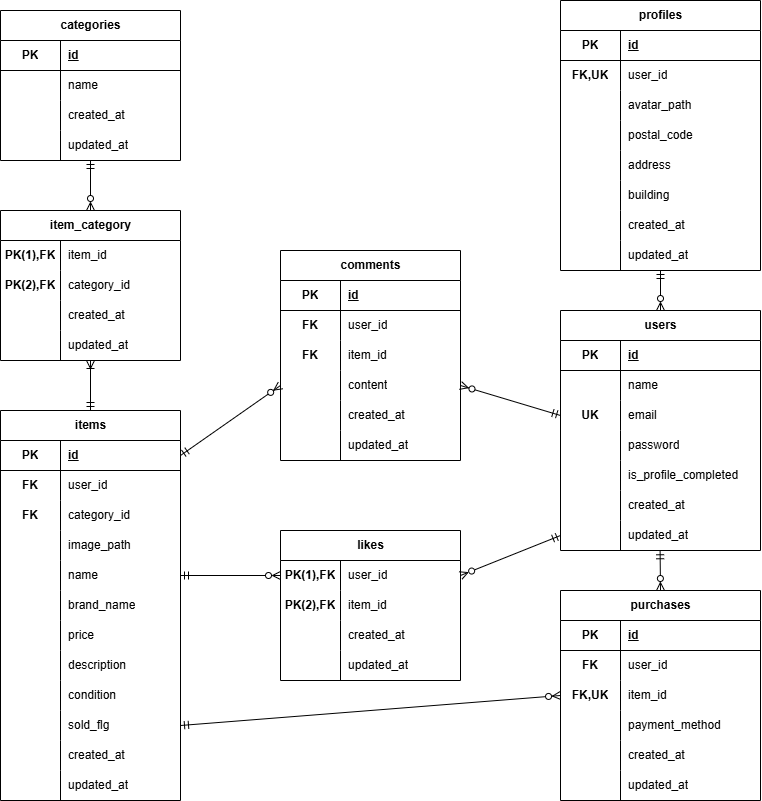
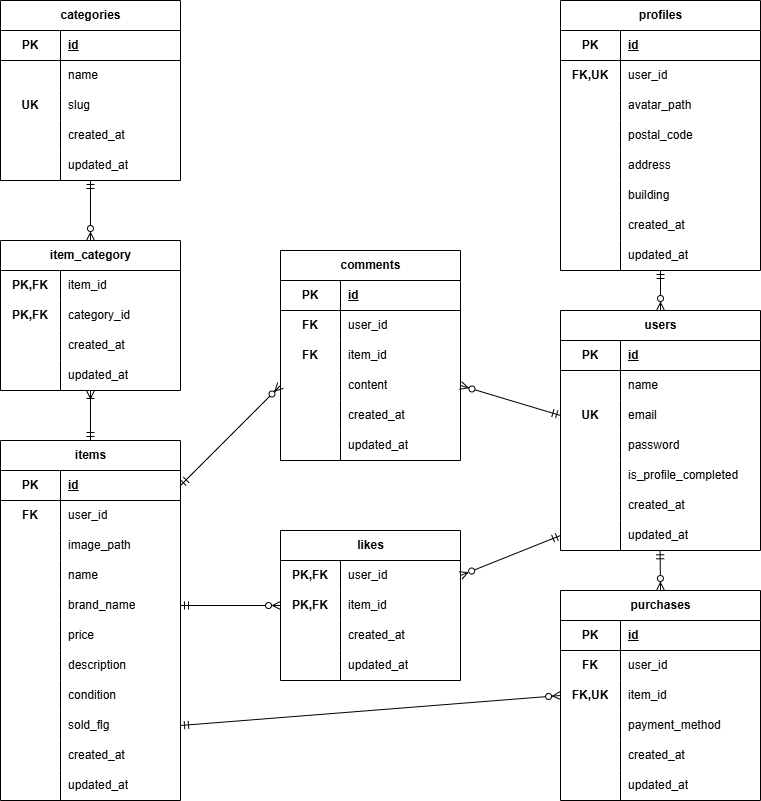
README+ER

diff --git a/src/database/migrations/2026_02_25_224746_create_comments_table.php b/src/database/migrations/2026_02_25_224746_create_comments_table.php
@@ -18,7 +18,8 @@ class CreateCommentsTable extends Migration
             $table->foreignId('user_id');
             $table->foreignId('item_id');
             $table->string('content');
-            $table->timestamps();        });
+            $table->timestamps();
+        });
     }
 
     /**

diff --git a/README.md b/README.md
@@ -59,7 +59,19 @@ chown www-data:www-data storage/logs/laravel.log
 - 開発環境：http://localhost/
 - phpMyAdmin：http://localhost:8080/
 
-## その他
+## ユーザ情報
 
+| ユーザ | メール | パスワード | 状態 |
+|--------|--------|------------|------|
+| user1 | user1@example.com | password | 会員登録・プロフィール設定のみ完了 |
+| user2 | user2@example.com | password | ダミー商品出品済み |
+| user3 | user3@example.com | password | いいね・コメント・購入済み |
+
+
+## その他
+- 要件ID[FN012] メール認証（応用機能）は未実装のためテーブル仕様書及びER図には記載なし。<br>
+→　ただしマイグレーションファイル「email_verified_at」カラムはデフォルトのまま残しています。<br>
+- 要件ID[FN006] プロフィール未設定ユーザ判別のためusersテーブルに「is_profile_completed」カラム追加。<br>
+→　直接usersテーブルに追記せず、「add_is_profile_completed_to_users_table」でカラムを追加しています。<br>
 - 要件ID[FN024]「テーブル内では各アイテムに送付先住所が紐づいている」<br>
-→　purchasesテーブル内の外部キーで紐づいていると判断しました。
+→　purchasesテーブル内の外部キーで紐づいていると判断しました。<br>
